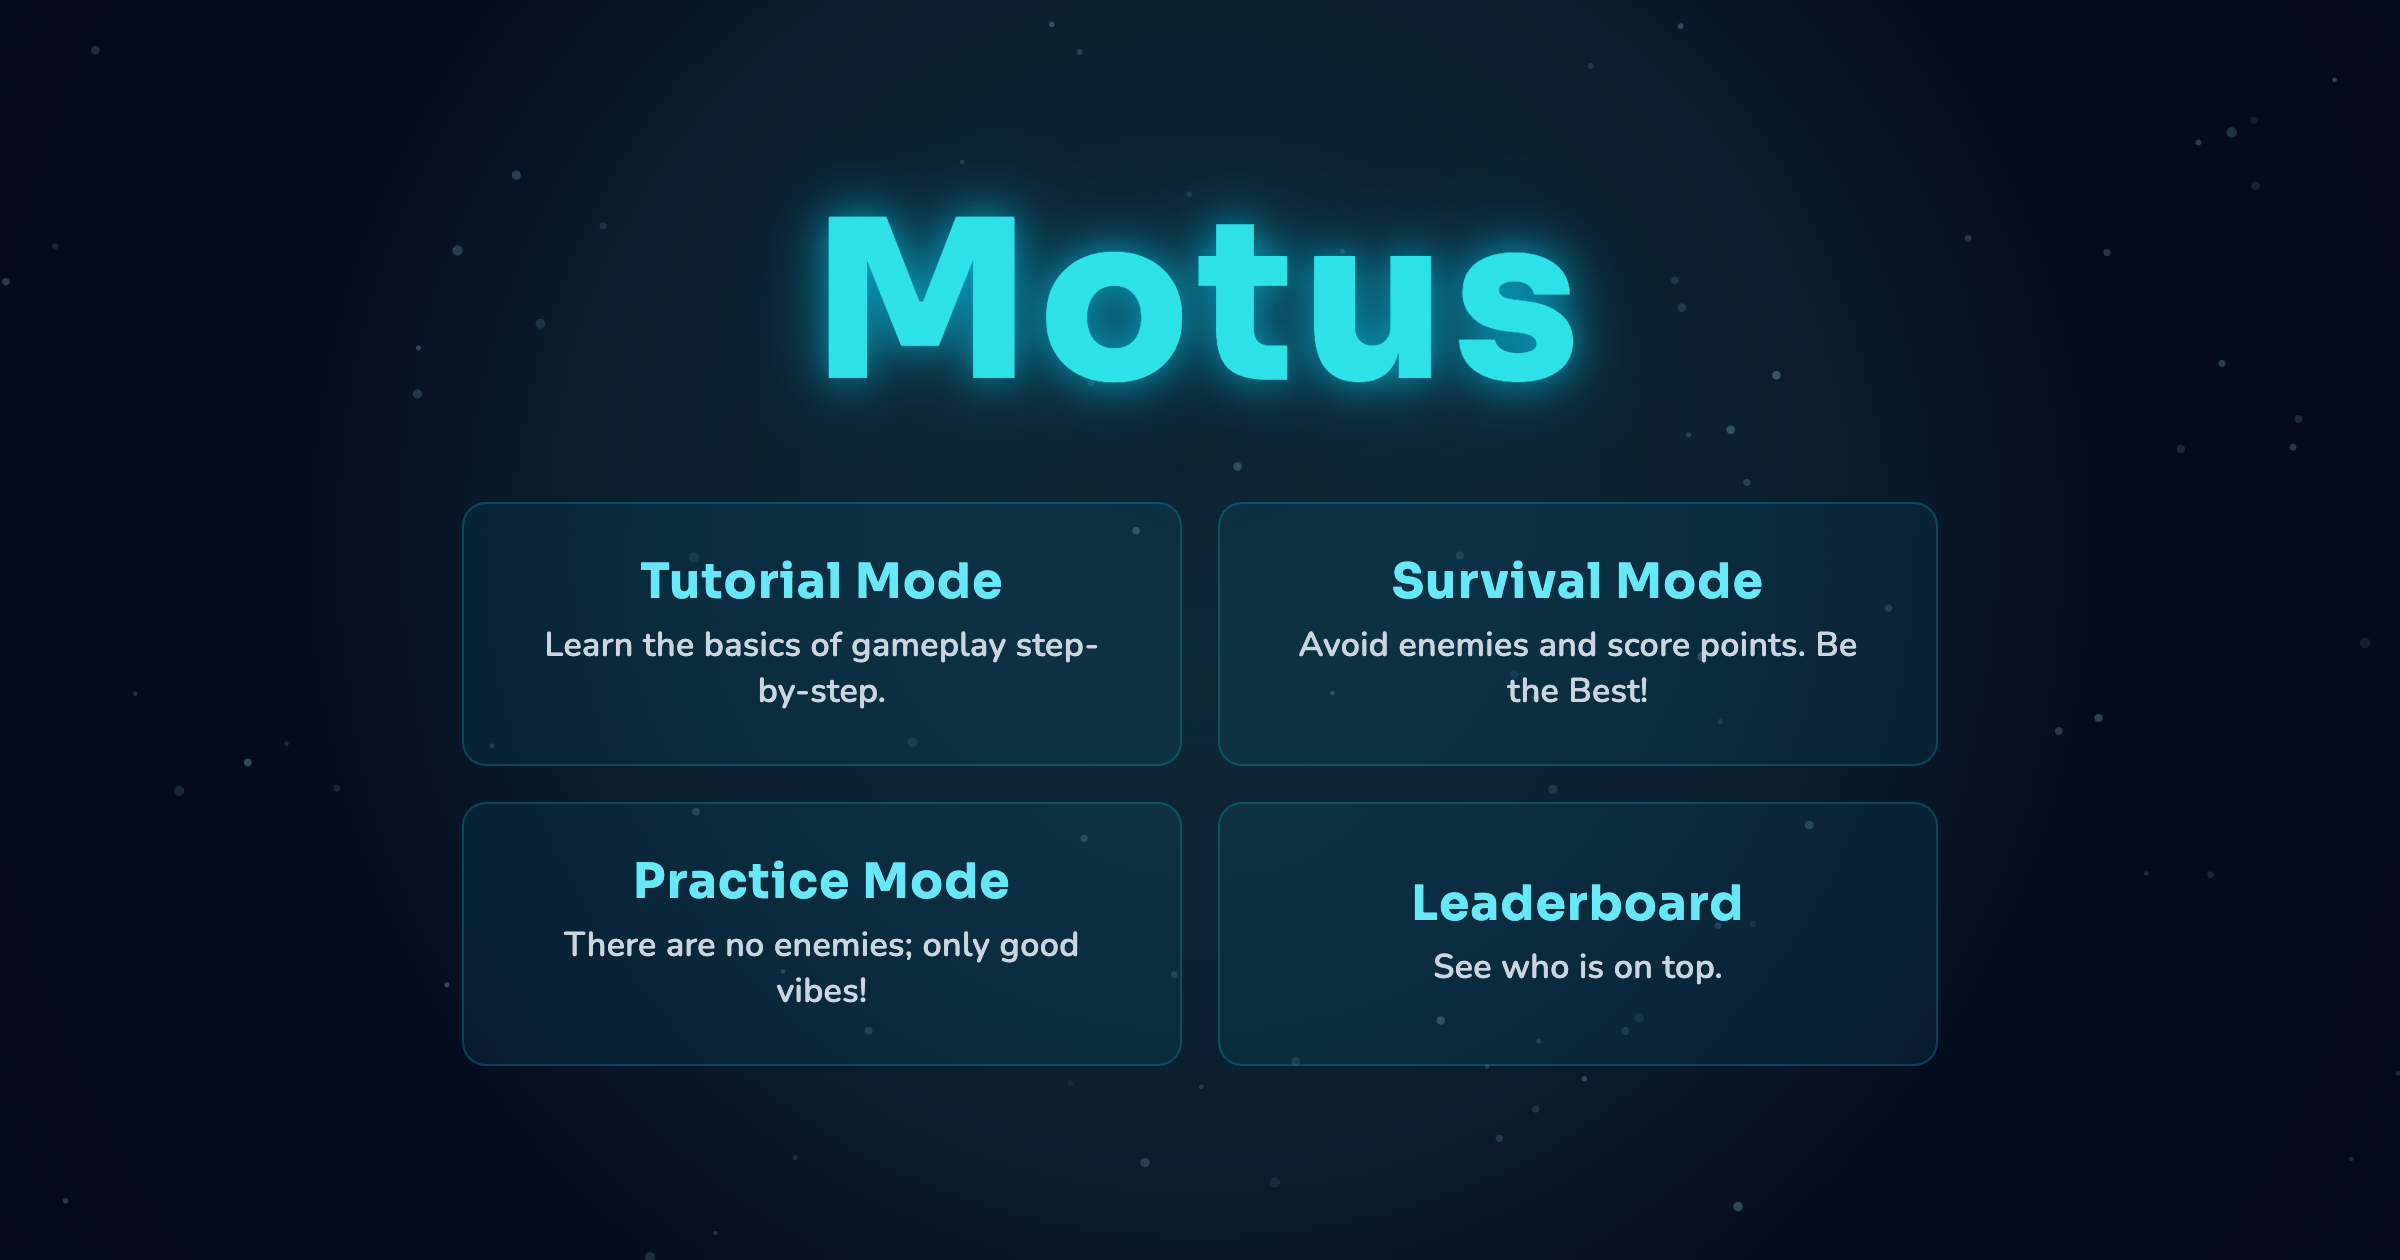
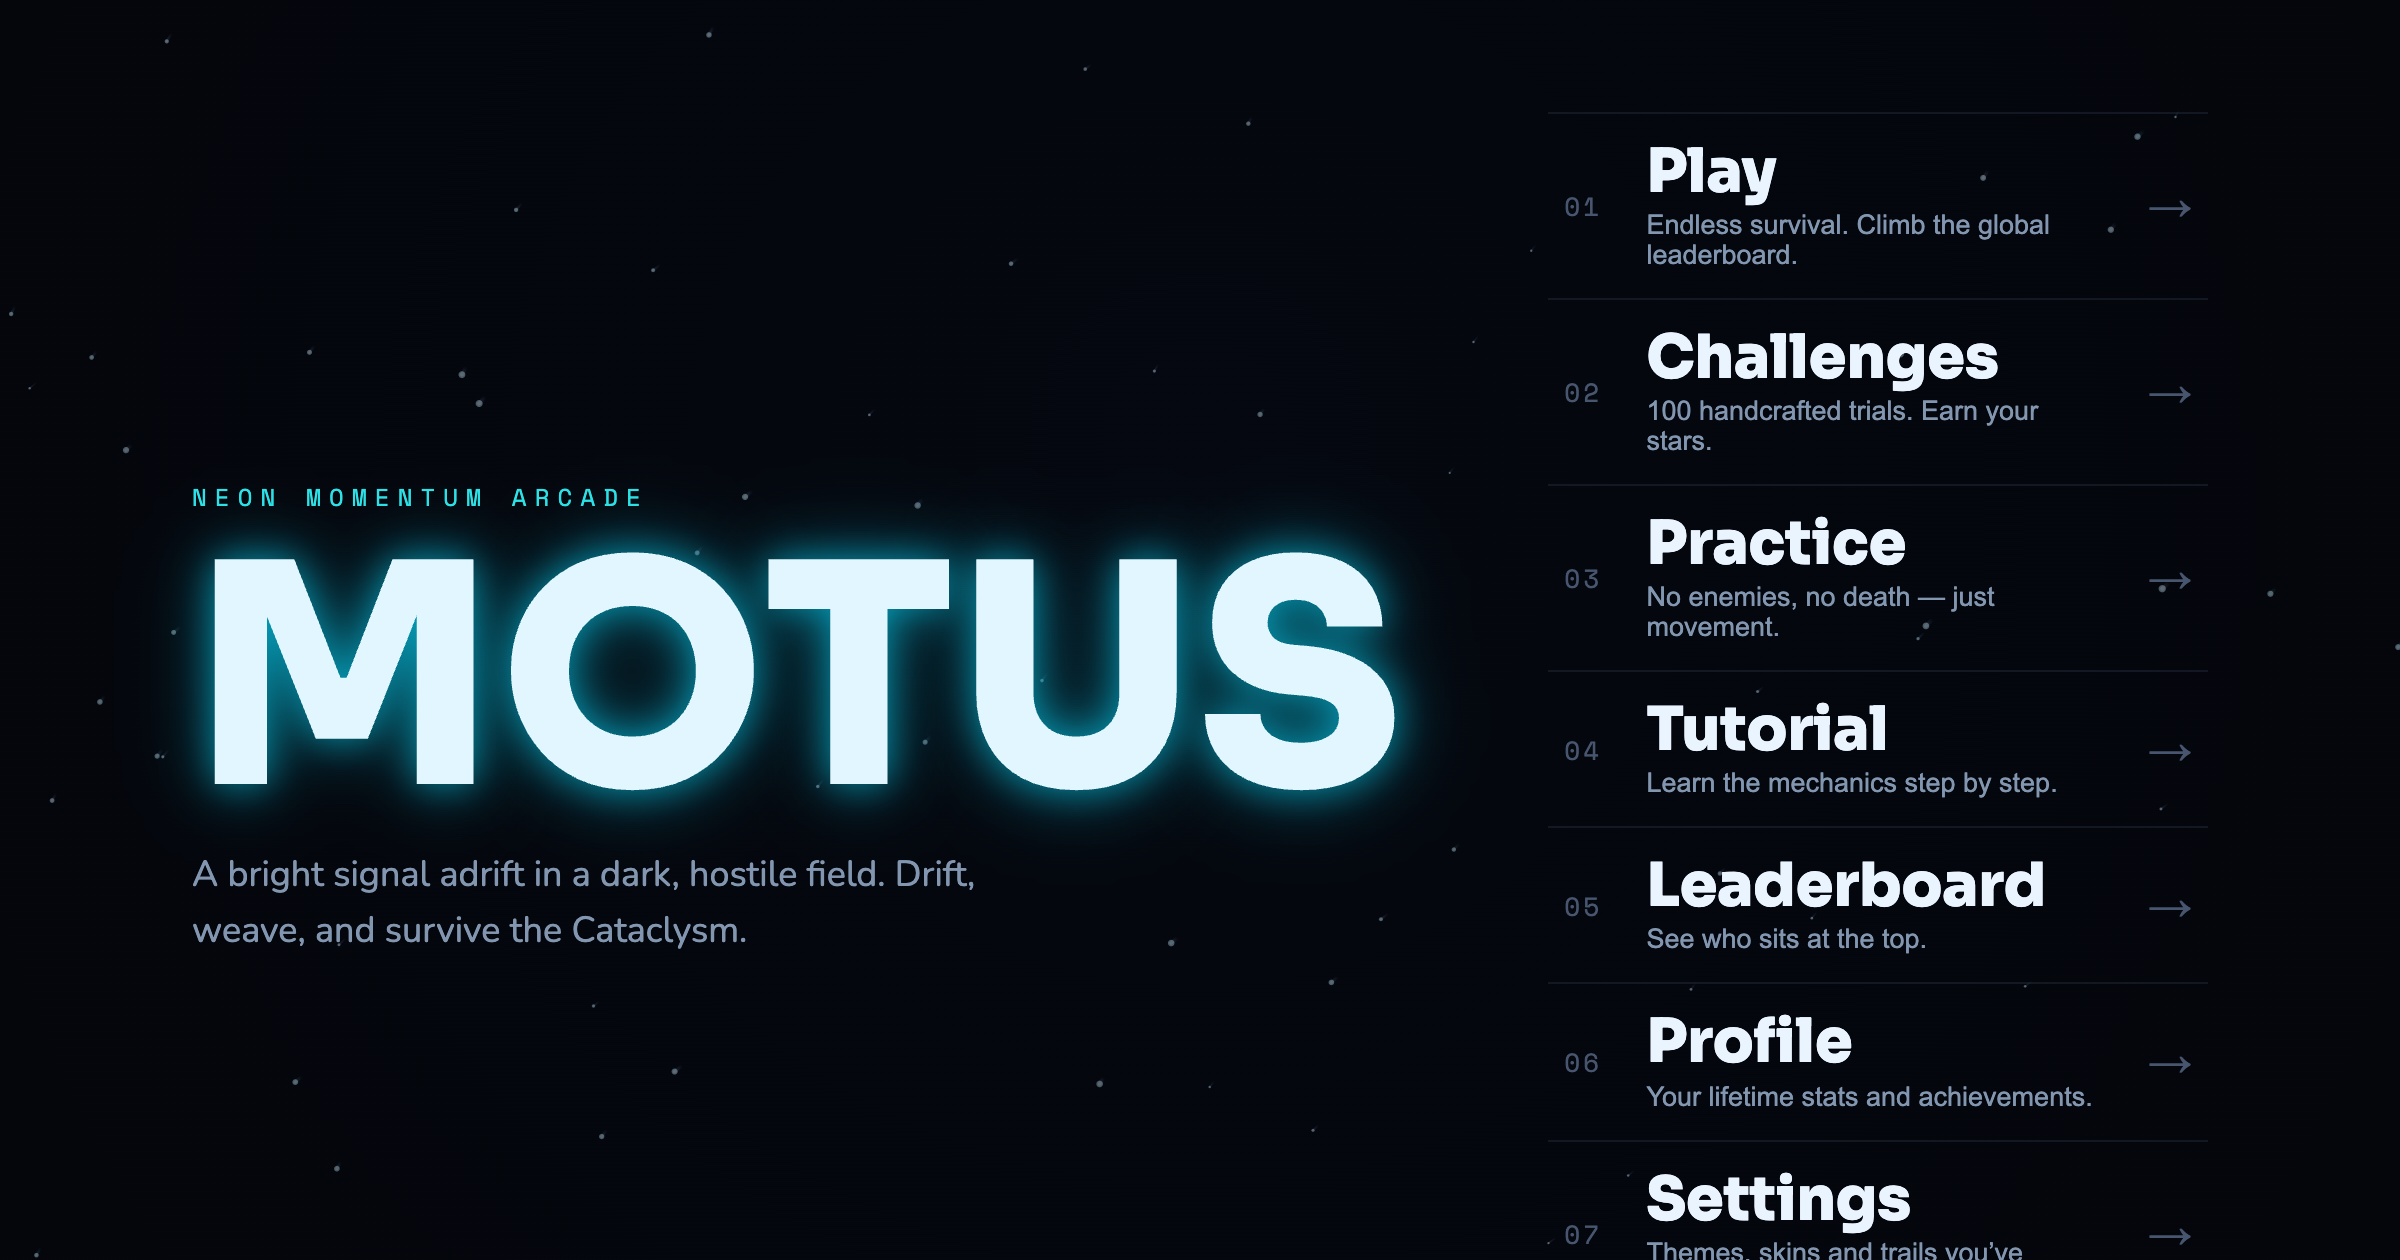
Move OG screenshot capture to GitHub Actions; cache-bust preview URLs
Headless Chrome can't launch in Vercel's build container, so the in-build
capture silently failed on every deploy and the shared-link preview stayed
stale. A workflow now re-captures the homepage after each push and commits
it back; og:image URLs carry the deploy SHA so platforms fetch fresh copies.
Includes the current redesign's screenshot.

diff --git a/src/app/layout.tsx b/src/app/layout.tsx
@@ -5,6 +5,11 @@ import { Analytics } from '@vercel/analytics/react'
 
 const siteUrl = 'https://playmotus.vercel.app'
 
+// Platforms (iMessage, Discord, Slack, …) cache og:image per-URL. Versioning
+// the URL with the deploy's commit SHA makes every deploy a fresh URL, so new
+// shares always fetch the latest screenshot instead of a stale cached one.
+const ogImage = `/og-home.png?v=${(process.env.VERCEL_GIT_COMMIT_SHA ?? 'dev').slice(0, 8)}`
+
 export const metadata: Metadata = {
   metadataBase: new URL(siteUrl),
   title: 'Motus',
@@ -12,21 +17,22 @@ export const metadata: Metadata = {
   alternates: {
     canonical: siteUrl,
   },
-  // og:image is a screenshot of the live homepage, regenerated on every deploy
-  // by scripts/capture-og.mjs -> public/og-home.png (see package.json build).
+  // og:image is a screenshot of the homepage, regenerated after every push by
+  // .github/workflows/og-refresh.yml -> public/og-home.png (committed by CI;
+  // headless Chrome can't run in Vercel's build container).
   openGraph: {
     title: 'Motus',
     description: 'A momentum-based platformer where precision and movement are everything.',
     url: siteUrl,
     type: 'website',
     siteName: 'Motus',
-    images: [{ url: '/og-home.png', width: 1200, height: 630, alt: 'Motus' }],
+    images: [{ url: ogImage, width: 1200, height: 630, alt: 'Motus' }],
   },
   twitter: {
     card: 'summary_large_image',
     title: 'Motus',
     description: 'A momentum-based platformer where precision and movement are everything.',
-    images: ['/og-home.png'],
+    images: [ogImage],
   },
   icons: {
     icon: '/favicon.svg',
